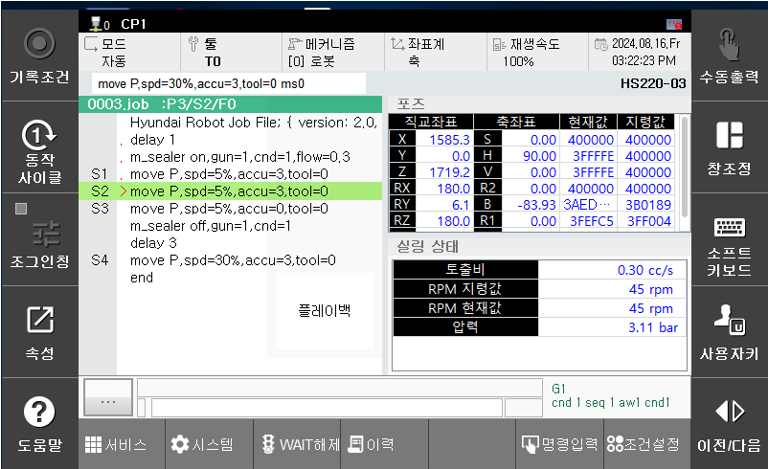
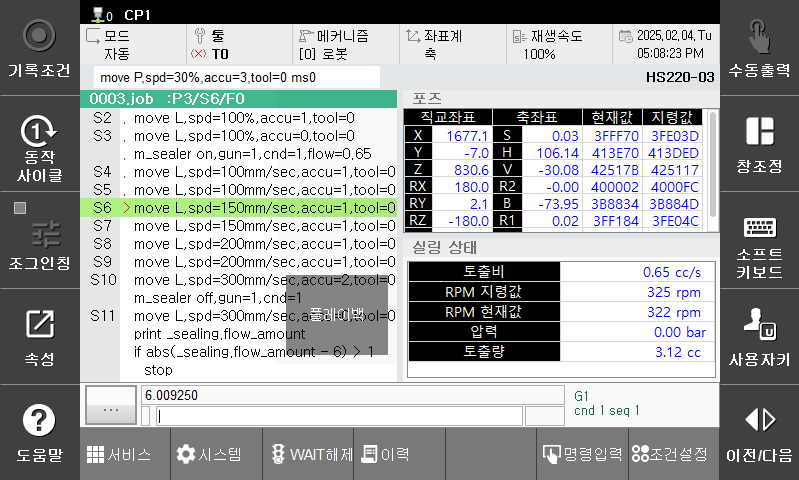
실러(모노펌프) 기능 추가 개발

diff --git a/5-etc/2-manual-oper.md b/5-etc/2-manual-oper.md
@@ -1,4 +1,22 @@
-# 5.2 수동모드에서 동작
+# 5.2 수동 운전(R371)
 
-수동모드에서 m_sealer 명령문을 실행할 때는 명령문은 실행 완료로 처리하지만 실제 동작은 수행하지 않습니다.
+[R371 : 실러 수동 운전]을 수행했을 때 표시되는 화면에서 모노펌프 건을 수동 운전할 수 있습니다.
+
+- 건 번호 : 수동 운전을 위한 건 번호를 설정합니다. <br>
+- 토출비 : 수동 운전을 위한 토출비를 설정합니다. <br>
+- 토출량 : 정량토출 동작시 토출량을 설정합니다. <br>
+
+![](../_assets/image20.png)
+![](../_assets/image21.png)
+
+- 정속토출 <br>
+ 설정된 토출비로 토출을 시작합니다. 토출을 정지하기 위해서는 [토출정지] 버튼을 별도로 수행하여야 합니다. <br>
+- 정량토출  <br>
+ 설정된 토출비로 토출을 시작한 후 설정된 토출량에 도달하면 자동으로 토출을 정지합니다. [토출정지] 버튼으로 강제로 토출을 정지할 수 있습니다. <br>
+- 토출정지 <br>
+ 토출을 정지하기 위해 사용합니다. <br>
+
+{% hint style="info" %}
+토출 정지시에는 항상 [off] 탭에 설정된 석백과 리필 조건에 따른 동작이 수행됩니다.
+{% endhint %}
 

diff --git a/2-basic-setting/3-monopump-setup/3-input-signal-assign.md b/2-basic-setting/3-monopump-setup/3-input-signal-assign.md
@@ -4,6 +4,12 @@
 
 ![](../../_assets/image9.png)
 
+[자동할당] 버튼에 의하여 선택된 용접기 제조사에 따른 신호의 자동 설정이 가능합니다.
+![](../../_assets/image9_1.png)
+
+- 통신 상태 : 실러 제어반과의 통신 상태를 확인합니다. 실러 제어반은 해당 신호를 1초마다 on/off 반복하도록 제어하면 됩니다. 로봇 제어기는 해당 신호의 상태가 1초 이상 변경되지 않으면 "E6319 실링 장비 통신이상" 에러를 발생합니다. <br>
+- 그 외 신호 : 실러 제어반의 상태를 확인합니다. 로봇 제어기에서 해당 상태를 검지하여 에러나 경고를 발생하고자 할 때에는 사용자 정의 에러/경고 기능을 사용하십시오.
+![](../../_assets/image9_2.png)
 - 압력 센서 : 압력 센서 입력에 대한 정보를 설정합니다. <br>
 	- 사양(최소 ~ 최대) :압력 센서 사양의 최소값과 최대값을 설정합니다. <br>
 	- 통신(최소 ~ 최대) :압력 센서의 데이터가 통신으로 전달될 때 이에대한 최소값과 최대값을 설정합니다. <br>

diff --git a/SUMMARY.md b/SUMMARY.md
@@ -11,6 +11,7 @@
     * [2.3.1 일반](2-basic-setting/3-monopump-setup/1-general.md)
     * [2.3.2 토출비 튜닝](2-basic-setting/3-monopump-setup/2-flow-rate-tunning.md)
     * [2.3.3 입력 신호 할당](2-basic-setting/3-monopump-setup/3-input-signal-assign.md)
+    * [2.3.4 출력 신호 할당](2-basic-setting/3-monopump-setup/4-output-signal-assign.md)
 * [3. 명령문과 실러조건](3-command-condition/README.md)
   * [3.1 명령문](3-command-condition/1-command/README.md)
     * [3.1.1 토출 시작 (m_seler on)](3-command-condition/1-command/1-msealer-on.md)
@@ -22,6 +23,8 @@
   * [4.1 실링 상태](4-monitoring/1-sealing-status.md)
 * [5. 기타](5-etc/README.md)
   * [5.1 실러 on구간 정지/재기동](5-etc/1-stop-restart.md)
-  * [5.2 수동모드에서 동작](5-etc/2-manual-oper.md)
+  * [5.2 수동 운전(R371)](5-etc/2-manual-oper.md)
   * [5.3 라이선스키 등록](5-etc/3-license-key.md)
+  * [5.4 시스템 변수](5-etc/4-system-var.md)
+  * [5.5 토출량 이력확인](5-etc/5-flow-amount-log.md)
 

diff --git a/2-basic-setting/3-monopump-setup/4-output-signal-assign.md b/2-basic-setting/3-monopump-setup/4-output-signal-assign.md
@@ -1,0 +1,13 @@
+# 2.3.4 출력 신호 할당
+
+모노펌프 건과 관련하여 로봇제어기에서 출력하는 신호에 대한 설정입니다.
+
+![](../../_assets/image10_5.png)
+
+[자동할당] 버튼에 의하여 선택된 용접기 제조사에 따른 신호의 자동 설정이 가능합니다.
+![](../../_assets/image9_1.png)
+
+- 토출 중 : 모노펌프 건이 실러의 토출 여부를 출력합니다. <br>
+- 에러 리셋 : 실러 제어반에 이상이 발생한 경우에 이를 리셋하기 위한 출력입니다. R1(에러 리셋) 동작이나 "에러/경보 신호 클리어" 신호가 입력되면 동작하는데 동작은 1초 동안 on되는 펄스 신호로 출력됩니다.<br>
+- 그 외 신호 : 로봇언어에서 신호출력으로 실러 제어반에 상태를 전달할 때 사용하십시오.
+

diff --git a/5-etc/4-system-var.md b/5-etc/4-system-var.md
@@ -1,0 +1,23 @@
+# 5.4 시스템 변수
+
+*   <mark style="color:green;">**_sealing.flow_amount (토출량)**</mark>
+
+    ### 설명
+        토출을 시작부터 계측된 토출량을 얻기위해 사용합니다.
+
+    ### 사용 예
+    ```python
+       m_sealer on,gun=1,cnd=1,flow=0.6 #토출시작
+    S4 move L,spd=100mm/sec,accu=1,tool=1
+    S5 move L,spd=100mm/sec,accu=1,tool=1
+    S6 move L,spd=100mm/sec,accu=1,tool=1
+    S7 move L,spd=100mm/sec,accu=1,tool=1
+    S8 move L,spd=100mm/sec,accu=1,tool=1
+       m_sealer off,gun=1,cnd=1 #토출종료
+       print _sealing.flow_amount
+       if abs(_sealing.flow_amount - 6) > 1 then
+           print "토출량이 지정된 범위를 벗어났습니다."
+           stop
+       endif
+    ```
+

diff --git a/5-etc/5-flow-amount-log.md b/5-etc/5-flow-amount-log.md
@@ -1,0 +1,18 @@
+# 5.5 토출량 이력확인
+
+기록된 로그 파일로 토출량의 이력을 확인할 수 있습니다.
+
+- date_time : 로그 기록시의 날짜와 시간입니다. <br>
+- job : 현재 프로그램 번호입니다. <br>
+- step : 현재 스텝의 번호입니다. <br>
+- flow_amount : 토출 시작부터 종료까지 계측된 토출량입니다. <br>
+
+![](../_assets/image22.png)
+
+![](../_assets/image23.png)
+
+{% hint style="info" %}
+- 제어기 전원 투입 후 첫번째 토출종료 명령에서 새로운 로그 파일이 생성되며 그 후 토출종료 명령을 실행할 때 계측된 토출량이 기록됩니다. 
+- 로그 파일은 0 ~ 9의 파일명이 순환하면서 생성됩니다.
+{% endhint %}
+

diff --git a/3-command-condition/1-command/README.md b/3-command-condition/1-command/README.md
@@ -2,5 +2,11 @@
 
 job 프로그램에서 모노펌프 건과 관련된 명령문에 대해서 알아봅시다.일반적으로 토출은 m_sealer on에서 m_sealer off의 구간내에서 수행됩니다.
 
+
+{% hint style="info" %}
+수동모드에서 m_sealer 명령문을 실행할 때는 명령문은 실행 완료로 처리하지만 실제 동작은 수행하지 않습니다.
+{% endhint %}
+
+
 ![](../../_assets/image11.png)
 

diff --git a/3-command-condition/2-condition/2-msealer-off.md b/3-command-condition/2-condition/2-msealer-off.md
@@ -1,6 +1,6 @@
 # 3.2.2 토출 종료 (m_seler off)
 
-m_sealer off명령문 수행시 석백 및 리필을 위한 동작 조건을 설정합니다. 
+m_sealer off명령문 수행시 석백 및 리필을 위한 동작 조건을 설정합니다. 석백은 토출이 끝난 후 잔량 제거를 위한 동작이며 리필은 석백이 끝나고 노즐에 실러를 충진하는 동작입니다. 
 
 ![](../../_assets/image14.png)
 

diff --git a/4-monitoring/1-sealing-status.md b/4-monitoring/1-sealing-status.md
@@ -10,4 +10,5 @@
 - RPM 지령값 : 토출비에 해당하는 실러 모터의 RPM 지령값입니다.
 - RPM 현재값 : 실러 모터의 RPM 현재값을 표시합니다.
 - 압력 : 압력 센서에 의해 입력되는 압력값을 표시합니다.
+- 토출량 : 토출 시작부터 계측된 토출양을 표시합니다.
 

diff --git a/2-basic-setting/3-monopump-setup/1-general.md b/2-basic-setting/3-monopump-setup/1-general.md
@@ -4,6 +4,7 @@
 
 ![](../../_assets/image3.png)
 
+- 제조사 : 모노펌프 건의 제조사를 선택합니다.
 - 토출비 단위 : 토출비 인터페이스를 위한 단위를 선택합니다.
 - 비중 : 실러 물질의 비중을 설정합니다.
 
